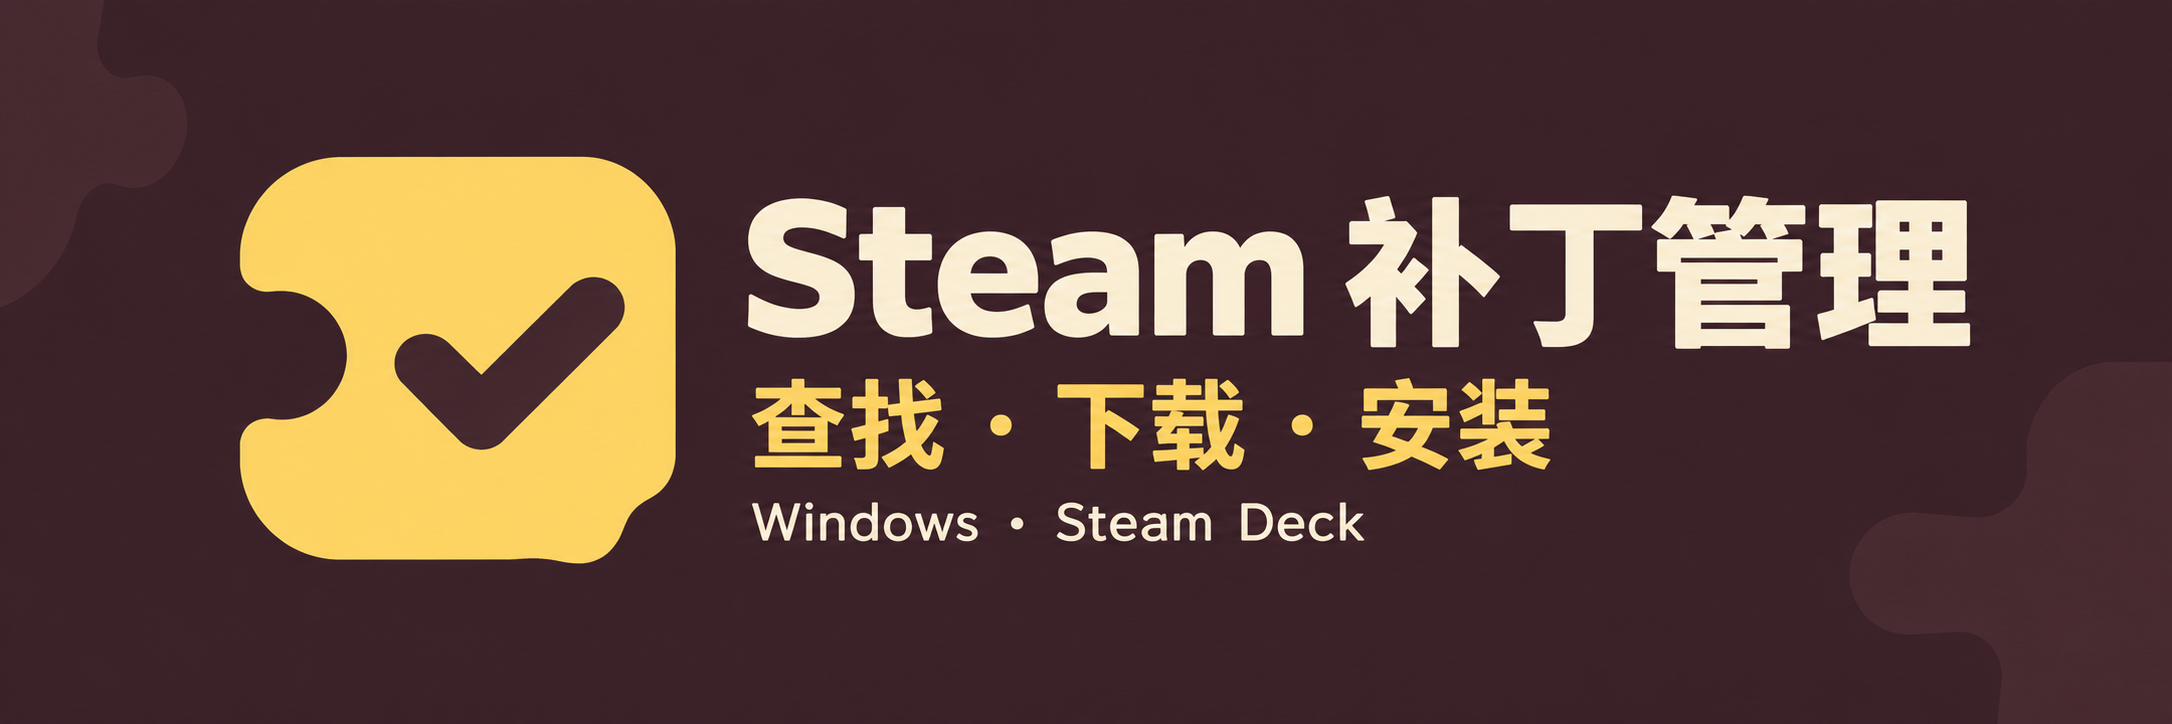
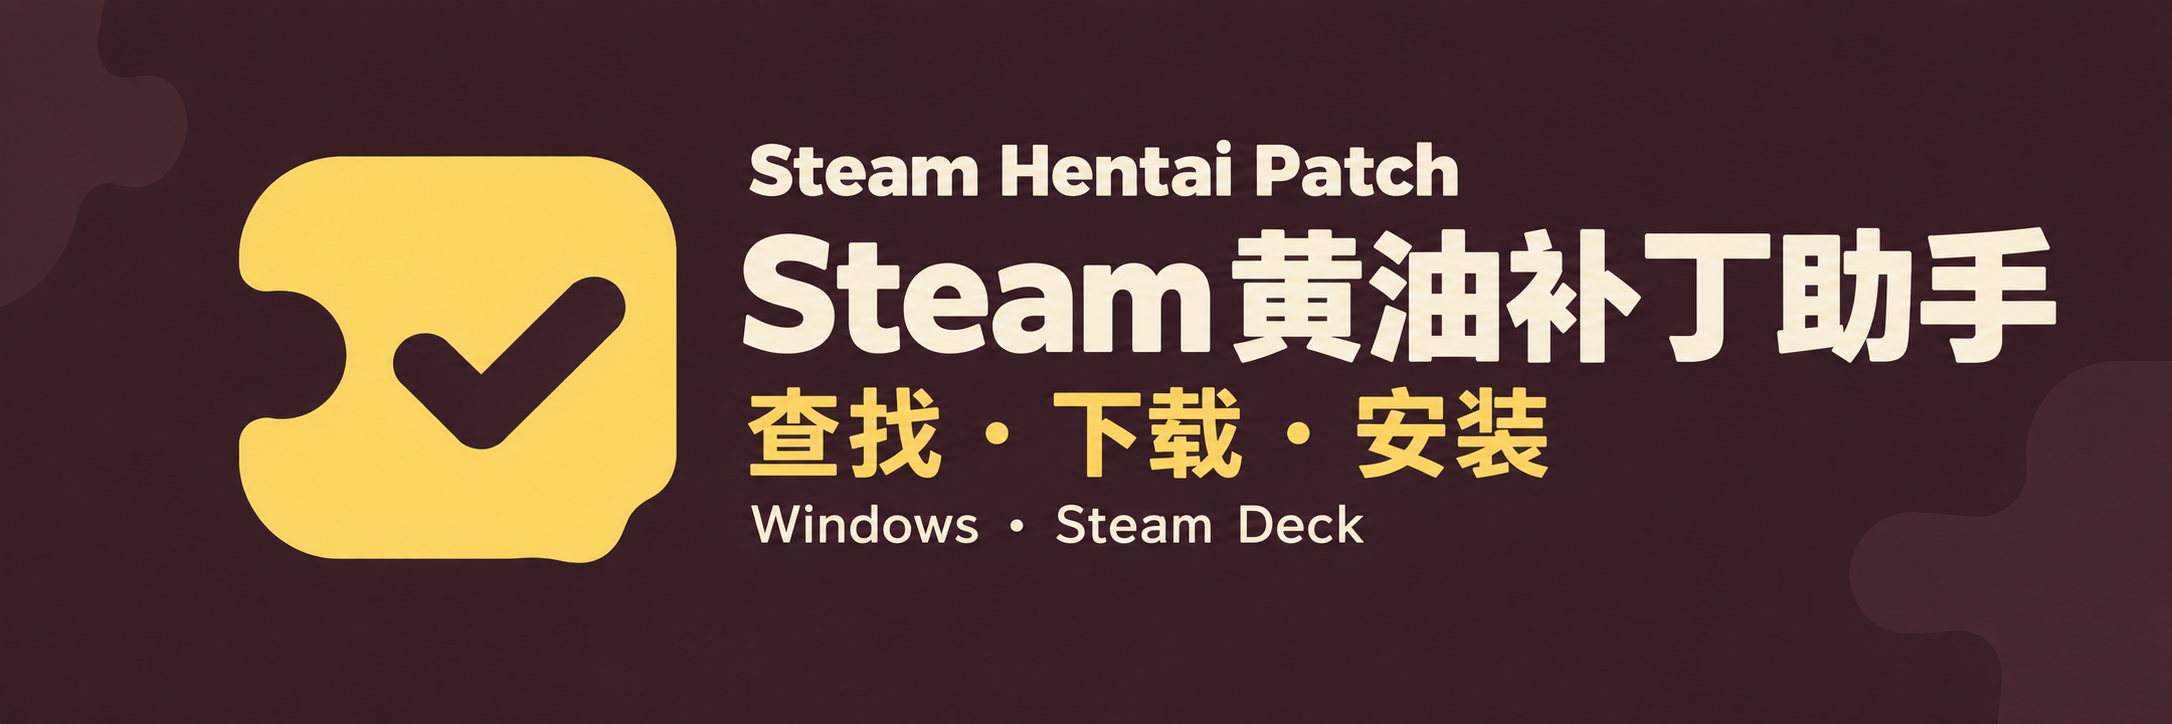
docs(branding): 统一仓库链接与品牌横幅并记录改名验证

Changed region(s): [[0.3393, 0.1823, 0.9563, 0.6685], [0.3393, 0.6989, 0.6478, 0.7597], [0.3393, 0.5166, 0.4627, 0.6685]]

diff --git a/README.md b/README.md
@@ -1,12 +1,12 @@
-# Steam 补丁管理
+# Steam Hentai Patch · Steam 黄油补丁助手
 
-![Steam 补丁管理：查找、下载、安装，支持 Windows 和 Steam Deck](docs/images/branding/banner.png)
+![Steam 黄油补丁助手：查找、下载、安装，支持 Windows 和 Steam Deck](docs/images/branding/banner.png)
 
-为 Windows 和 Steam Deck 上已安装的 Steam 游戏查找、下载和安装补丁，省去逐个搜索发布页、核对下载文件和手动复制的步骤。
+一站式查找、下载并安装 Steam 黄油的成人内容补丁，支持 Windows 和 Steam Deck。省去逐个搜索发布页、核对下载文件和手动复制的步骤。
 
 工具会读取本机 Steam 游戏库，展示补丁来源、语言、适用版本和安装状态。支持的补丁可以直接安装或覆盖安装；无法自动处理的补丁，也可以从详情页打开来源网站，按发布方说明操作。
 
-**[下载最新版本](https://github.com/Mabinogi-Cichol/steam-hentai-patch-searcher/releases/latest)** · **[查看所有版本](https://github.com/Mabinogi-Cichol/steam-hentai-patch-searcher/releases)** · **[反馈问题](https://github.com/Mabinogi-Cichol/steam-hentai-patch-searcher/issues)**
+**[下载最新版本](https://github.com/Mabinogi-Cichol/steam-hentai-patch/releases/latest)** · **[查看所有版本](https://github.com/Mabinogi-Cichol/steam-hentai-patch/releases)** · **[反馈问题](https://github.com/Mabinogi-Cichol/steam-hentai-patch/issues)**
 
 **快速导航：** [功能介绍](#可以做什么) · [补丁来源](#已支持的发行商源) · [下载与安装](#下载与安装) · [安装第一个补丁](#安装第一个补丁) · [实机示例](#steam-deck-实机使用示例) · [常见问题](#常见问题)
 
@@ -41,7 +41,7 @@ Windows 提供独立桌面应用；Steam Deck 通过 Decky 插件在游戏模式
 
 ## 下载与安装
 
-安装包可从 [Releases 下载页](https://github.com/Mabinogi-Cichol/steam-hentai-patch-searcher/releases/latest) 获取，根据设备选择附件。Steam Deck 也可直接使用下方的命令行在线安装。
+安装包可从 [Releases 下载页](https://github.com/Mabinogi-Cichol/steam-hentai-patch/releases/latest) 获取，根据设备选择附件。Steam Deck 也可直接使用下方的命令行在线安装。
 
 | 设备 | 下载文件 | 安装方式 |
 | --- | --- | --- |
@@ -54,7 +54,7 @@ Windows 提供独立桌面应用；Steam Deck 通过 Decky 插件在游戏模式
 
 ### Windows
 
-安装后启动 **Steam 补丁管理**，等待游戏库扫描完成。使用便携版时，请保留解压后的全部文件，不要单独移动其中的 EXE。
+安装后启动 **Steam 黄油补丁助手**，等待游戏库扫描完成。使用便携版时，请保留解压后的全部文件，不要单独移动其中的 EXE。
 
 > [!NOTE]
 > Windows 安装包目前没有代码签名；系统可能提示未知发布者。请确认文件来自本仓库的 Release。
@@ -87,15 +87,17 @@ Windows 提供独立桌面应用；Steam Deck 通过 Decky 插件在游戏模式
 
 #### ZIP 离线安装
 
+从旧名称 **Steam 补丁管理** 升级时，推荐使用上方命令行安装，让安装器处理名称切换。若使用离线 ZIP，请先在 Decky 卸载旧名称插件，再导入新版 ZIP；游戏补丁与独立数据目录不随插件目录删除。旧 Release 附带的终端安装器内置旧仓库地址，仓库改名后请使用本页当前安装命令。
+
 适用于 Steam Deck 无法访问 GitHub，或希望手动选择版本的情况。先在可联网的设备下载完整 ZIP，再传到 Steam Deck 本地安装。
 
-1. 从 [Releases](https://github.com/Mabinogi-Cichol/steam-hentai-patch-searcher/releases) 选择所需版本，下载 **`steam-patch-manager-decky.zip`**。
+1. 从 [Releases](https://github.com/Mabinogi-Cichol/steam-hentai-patch/releases) 选择所需版本，下载 **`steam-patch-manager-decky.zip`**。
 2. 通过 U 盘或局域网文件传输，将 ZIP 放到 Steam Deck 的“下载”目录等易于找到的位置，保留完整 ZIP。
 3. 打开 Decky 设置，使用**从 ZIP / 本地文件安装插件**的入口，选择刚传入的 ZIP 并确认安装；部分版本需要先启用开发者模式。
 
 ZIP 已包含插件运行所需的核心程序，本地安装这一步无需从 GitHub 下载依赖。查找和下载游戏补丁仍需联网。
 
-任一方式安装完成后，返回游戏模式，按 **“…”** 打开快捷访问菜单，进入 Decky，选择 **Steam 补丁管理**，等待游戏库扫描完成。
+任一方式安装完成后，返回游戏模式，按 **“…”** 打开快捷访问菜单，进入 Decky，选择 **Steam 黄油补丁助手**，等待游戏库扫描完成。
 
 ## 安装第一个补丁
 

diff --git a/docs/features/unified-project-naming/progress.md b/docs/features/unified-project-naming/progress.md
@@ -1,0 +1,22 @@
+# 项目统一命名施工记录
+
+[设计文档](design.md)
+
+## 状态
+
+已实现，当前平台自动化检查通过。Linux/POSIX 及实机升级待验证。
+
+## 2026-10-20
+
+- 从 main 创建 feature/unified-project-naming。
+- 统一英文名 Steam Hentai Patch、中文名 Steam 黄油补丁助手及简介。
+- 更新当前仓库链接、Windows 与 Decky 标题、发布元数据及终端安装器。保留持久化目录和已发布附件名。
+- 补齐旧 Decky 名称的升级与恢复匹配。
+- 更新当前技能的项目名称及运行验证示例；部署参考中仅暂存名称改动块，保留原有两处部署规范修改。
+- GitHub 仓库已改名为 [Mabinogi-Cichol/steam-hentai-patch](https://github.com/Mabinogi-Cichol/steam-hentai-patch)，简介已更新。SSH publickey 认证失败，origin 切换为现有已认证的 HTTPS 地址；fetch 成功，main 与 origin/main 初始一致。
+- 检查：npm run typecheck、npm run build:windows、npm run build:decky 全部通过。桥接测试 14/14 通过，包括旧名发现、任务读取、先卸载旧身份再确认安装、设置迁移和恢复原身份。
+- Python 安装器/引导测试：43 项，10 项通过、33 项因当前 Windows 缺少 POSIX/SteamOS Bash 条件跳过（包含新增完整旧名升级与失败恢复用例）；不将跳过项计为验证通过。
+- 横幅使用内置 imagegen 同步更新中英文名称，目视确认文字及现有图案；提示词记录在 [品牌素材说明](../../images/branding/README.md)。
+- overengineering-review 静态复核：仅增加已发布旧身份所需的定向兼容；未增加硬限制、通用迁移框架或重试策略。沿实际安装/恢复路径核对了名称传递及设置恢复。
+- 未部署设备，未验证真实 Decky 改名升级、离线 ZIP 升级或 Windows 安装包升级。离线 ZIP 的旧名升级步骤已在 README 明确。
+- 代码提交：`2c9c2fa chore(branding): 统一项目名称并兼容旧名插件升级`。文档与横幅单独提交；交付流程为验证后合并 main 并推送至新仓库。

diff --git a/docs/features/README.md b/docs/features/README.md
@@ -6,6 +6,7 @@
 
 | 功能 | 状态 | 设计文档 | 施工记录 | 附加文档 |
 | --- | --- | --- | --- | --- |
+| 项目统一命名 | 已实现，类型/前端构建/桥接及当前平台 Python 检查通过；POSIX 与实机升级待验证 | [设计](unified-project-naming/design.md) | [施工记录](unified-project-naming/progress.md) | — |
 | 来源缓存与游戏匹配重构 | P1–P5 已实现并通过自动化门禁；P6 自动化验收与过度设计复核完成，真实网站关键链路（HGamer live、Kagura 列表结构与 EN 多入口）已修复并通过；Steam Deck 已完成编译部署、RPC/真实界面冒烟；Windows 实机、完整实机矩阵与安装链回归待验收；用户已要求合并 main 并发布 v0.2.0 | [设计](source-cache-matching-refactor/design.md) | [施工记录](source-cache-matching-refactor/progress.md) | [P0 基线](source-cache-matching-refactor/p0-baseline.md) · [P1 契约](source-cache-matching-refactor/p1-contract.md) · [P4 测绘](source-cache-matching-refactor/p4-host-map.md) · [P6 验收](source-cache-matching-refactor/p6-acceptance.md) · [VenusBlood 修复](source-cache-matching-refactor/vbf-matching-fix.md) |
 | Decky 可折叠订阅源卡片（来源缓存与游戏匹配重构子 feature） | 已实现并部署 Steam Deck；前端 67 tests/typecheck/build、真实页面/键盘/RPC 通过；实体手柄与真实任务待验收 | [设计](source-cache-matching-refactor/collapsible-source-cards/design.md) | [施工记录](source-cache-matching-refactor/collapsible-source-cards/progress.md) | [父 feature](source-cache-matching-refactor/design.md) |
 | ZIP 无备份直接安装（安装磁盘占用与兼容性精简子功能） | Z1–Z4 已实现，本地自动化通过；Steam Deck 部署与一次 ZIP 直接安装通过，UI/中断/性能对比待验证 | [设计](install-footprint-and-compatibility/zip-direct-installation/design.md) | [施工记录](install-footprint-and-compatibility/zip-direct-installation/progress.md) | — |

diff --git a/docs/features/unified-project-naming/design.md b/docs/features/unified-project-naming/design.md
@@ -1,0 +1,19 @@
+# 项目统一命名
+
+[施工记录](progress.md)
+
+## 目标与范围
+
+- 仓库名：`steam-hentai-patch`。英文名：Steam Hentai Patch。中文名：Steam 黄油补丁助手。
+- 简介：一站式查找、下载并安装 Steam 黄油的成人内容补丁。
+- 更新 Windows、Decky 可见标题、应用元数据、SBOM、README 和当前下载入口；GitHub 仓库改名并同步 origin。
+- 保留已有数据目录、Tauri identifier、Decky 安装目录、内部包名、路由、可执行文件和 Release 附件名，避免丢失状态或破坏现有发行附件链接。
+- 历史验收证据中的原名称、路径和素材生成提示词不改写。横幅同步替换中英文名称。
+
+## 实施与边界
+
+Decky 原显示名也是 Loader 身份。终端安装器只识别本项目新旧两个名字，读取旧版任务、备份旧包、安装新包以及失败恢复时使用对应身份；Loader 3.2.9 的 browser.py 按元数据名称查找已安装插件，因此跨名称时先通过 Loader 卸载旧身份，再确认安装新包，避免同目录遗留旧运行实例。成功后迁移本插件在 Loader 设置中的名称。兼容由已发布旧包直接驱动，不增加通用迁移框架。
+
+## 验收
+
+检查名称引用和 Git diff；运行类型检查、两端前端构建、安装器及桥接相关测试。仓库远端名称、推送结果和未执行的设备验证分别记录。

diff --git a/docs/images/branding/README.md b/docs/images/branding/README.md
@@ -58,3 +58,13 @@ Text EXACTLY:
 "Windows · Steam Deck"
 Constraints: all typography is flat, no fake dimensionality. No hearts, no faces, no characters, no food props, no Steam official symbol, no additional text, no badges, no watermark, no mockup presentation. Deliver one finished warm minimal banner that clearly belongs with the referenced flat logo.
 ```
+
+## 2026-10-20 名称统一
+
+横幅通过内置 imagegen 编辑为 Steam Hentai Patch / Steam 黄油补丁助手，保留原有图案、配色和 2172 × 724 尺寸。已目视核对中英文、查找/下载/安装及平台文字。上方原始生成提示词保留为历史记录。
+
+本次最终提示词（内置工具，text-localization）：
+
+```text
+Edit target: existing banner.png. Preserve butter yellow puzzle/check logo, cocoa background, flat typography and 3:1 composition. Replace main title with exact Chinese text "Steam 黄油补丁助手". Add smaller English brand "Steam Hentai Patch" above it. Keep "查找 · 下载 · 安装" and "Windows · Steam Deck". Fit all text without clipping. No new icons, hearts or decoration.
+```

diff --git a/.agents/skills/decky-deploy-verify/references/deployment.md b/.agents/skills/decky-deploy-verify/references/deployment.md
@@ -57,7 +57,7 @@ Test-Path -LiteralPath $deckKey
 | 项目 | 本仓库通常值 / 检查方式 |
 | --- | --- |
 | 插件目录 | `/home/deck/homebrew/plugins/steam-patch-manager`；确认真实路径、非符号链接和插件身份 |
-| 显示身份 | 从本地与远端 `plugin.json` 读取 `name`，目前为 `Steam 补丁管理`；版本读 `package.json` |
+| 显示身份 | 从本地与远端 `plugin.json` 读取 `name`，新版为 `Steam 黄油补丁助手`（旧版为 `Steam 补丁管理`）；版本读 `package.json` |
 | 状态目录 | `main.py` 使用 `DECKY_USER_HOME/.local/share/steam-patch-manager`；独立于插件目录 |
 | Loader | 本轮读取其版本、服务状态与日志，历史 3.2.9 的安装参数不能当作永久协议 |
 | CEF / HTTP | 设备 loopback 常见 `8080` / `1337`，只读探测是否可用，不直接暴露到局域网 |

diff --git a/.agents/skills/steam-patch-release/SKILL.md b/.agents/skills/steam-patch-release/SKILL.md
@@ -5,7 +5,7 @@ description: 发布本项目版本、维护 GitHub Release 标题或说明，并
 
 # 本项目版本发布
 
-适用于本技能所在的 `steam-hentai-patch-searcher` 仓库。项目根目录为技能目录向上三级，先阅读 [AGENTS.md](../../../AGENTS.md)。使用当前会话已经明确授权的发布范围；本技能本身不授权提交、推送、部署或修改游戏。
+适用于本技能所在的 `steam-hentai-patch` 仓库。项目根目录为技能目录向上三级，先阅读 [AGENTS.md](../../../AGENTS.md)。使用当前会话已经明确授权的发布范围；本技能本身不授权提交、推送、部署或修改游戏。
 
 ## Release 标题
 

diff --git a/apps/decky/README.md b/apps/decky/README.md
@@ -42,7 +42,7 @@ curl -fsSL https://ba.sh/tz4y | bash -s -- --check
 不使用短链接时，可直接从 GitHub 获取同一个入口：
 
 ```bash
-curl -fsSL https://raw.githubusercontent.com/Mabinogi-Cichol/steam-hentai-patch-searcher/main/install.sh | bash
+curl -fsSL https://raw.githubusercontent.com/Mabinogi-Cichol/steam-hentai-patch/main/install.sh | bash
 ```
 
 已手动保存 Python 安装器时，也可以直接运行；这些命令仍会联网下载插件包：
